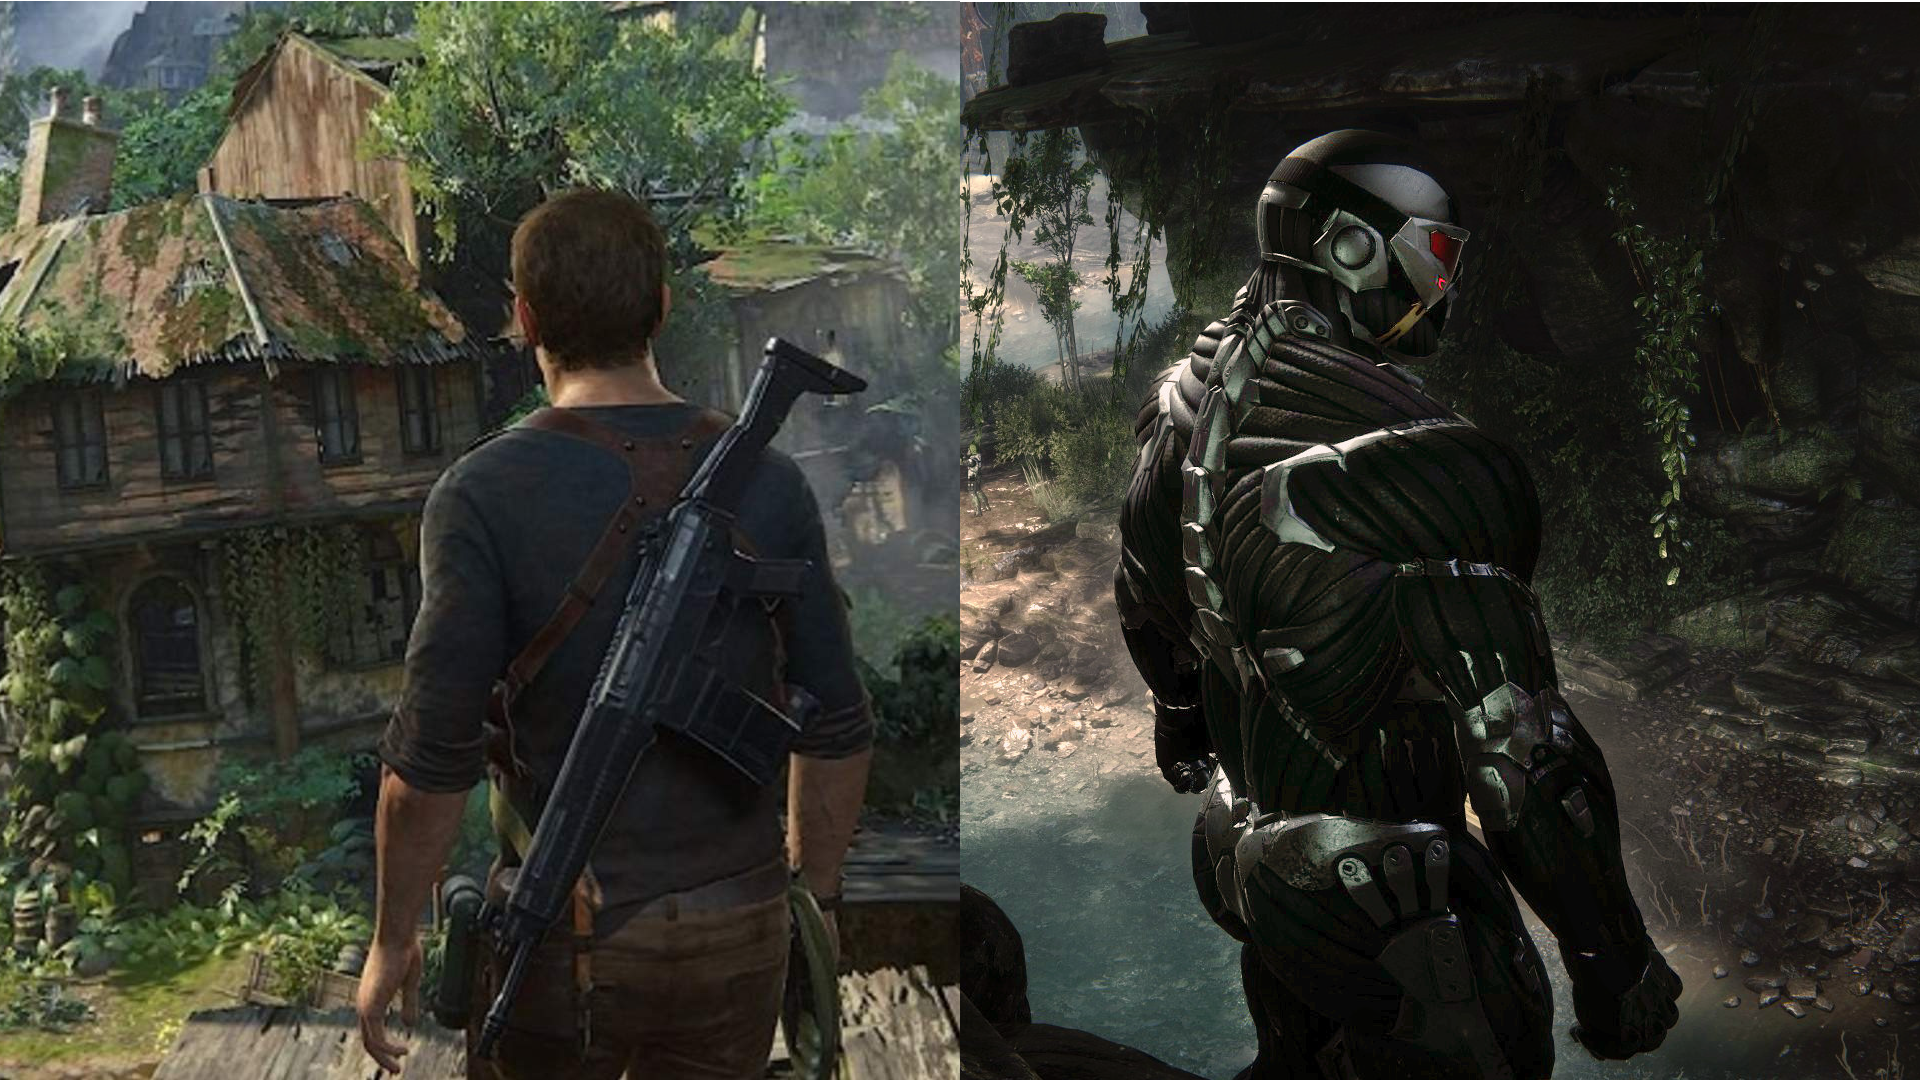
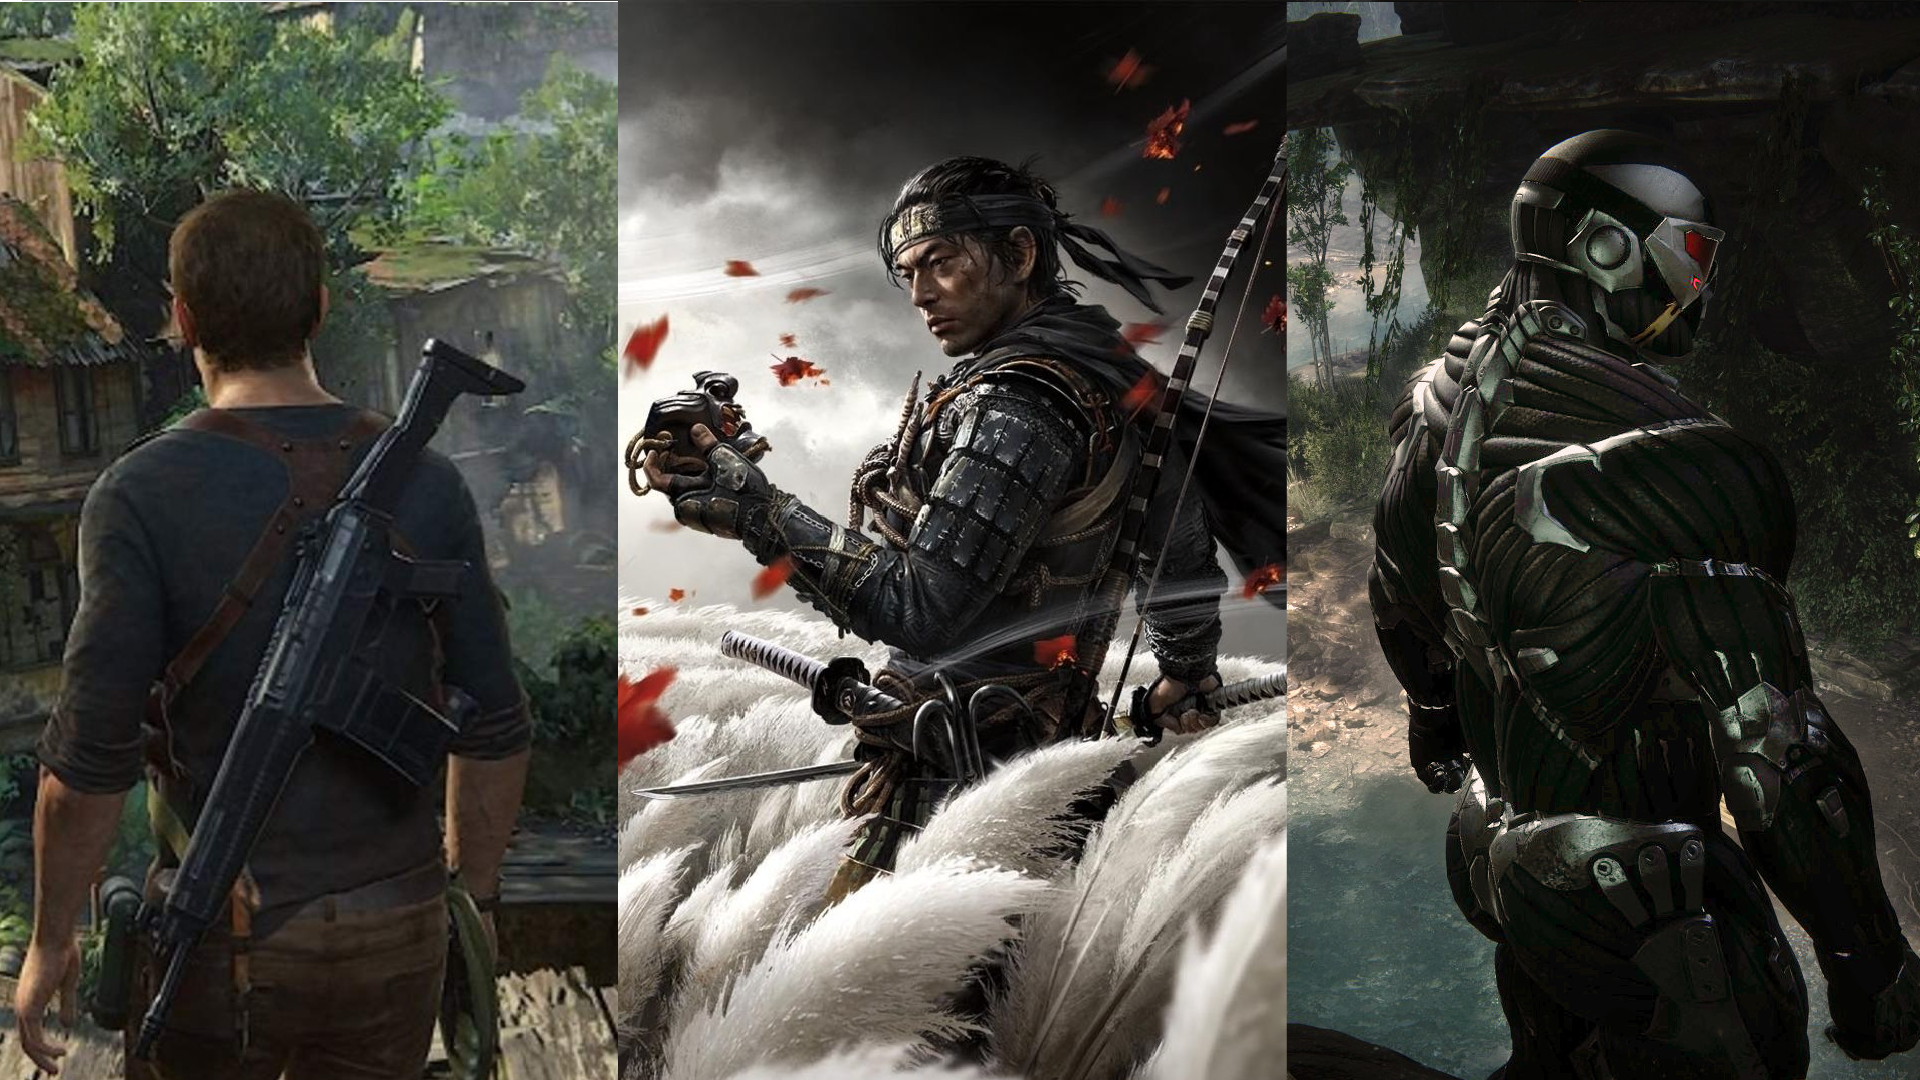
7.31 Birthday Update
Keeping playing and writing is a good habit.

diff --git a/games/stealth-level.html b/games/stealth-level.html
@@ -259,28 +259,36 @@
       <div class="main-design-description">
         <span class="element-title">mesh & color</span><br />
         Although the purpose of this level is not to make an environment design
-        portfolio, I built the level in medium details, especially for places
-        that should attract more attention. Coloring the mesh is also important,
-        as it gives a sense of what function the mesh serves.<br /><br />
+        portfolio, I built the level in medium detail, especially in places that
+        should attract more attention. <br /><br />
         What is interesting is that, when I was blocking out the level and
-        testing, I found in real games, each floor in interior levels should
-        better be HIGHER than in real life, due to fact that the third-person
-        camera angle is usually higher than the player character.<br /><br />
-        Translucent material is another level component I played with this time.
-        I used it on some windows to artistically make the mansion feel modern
-        and alive, but also to help players see through some part of the mansion
-        and guide them. <br />
+        testing, I found in real practices, each floor in interior levels should
+        better be HIGHER than in real life, due to fact that the position of
+        third-person camera is usually higher than the player character, which
+        makes the surroundings look lower.<br /><br />
+        I paid special attention to the colors being used on meshes. For a level
+        design project, I guess the prior job for color is not really to make a
+        level "real", but to make it MEANINGFUL. Every color should tell the
+        player clearly its purpose: maybe it's to attract attention as a focal
+        point; maybe it's to indicate of a place where special item hides; maybe
+        to convey faithfully a mood of the scene.<br /><br />
+        Translucent material is another component I played with this time. I
+        used it on pieces of mansion window glass to make the mansion feel
+        artistically modern and alive, but also to help players see through some
+        part of the mansion and guide them. An example is the glass in front of
+        stairs so players can see that the first moment they enter the
+        mansion.<br />
         <span class="element-title">lighting</span><br />
-        Lights plays a significant role in night scenes. In my level lighting
+        Lights plays a significant role in scenes at night. In my level lighting
         was used mostly to indicate important locations and hence direct the
-        players. I tried to use different colors for different purposes: yellow
-        means common places, white can be seen at the entrance of large area,
-        light yellow is used for enemies' flashlights.
+        players. Lights can also affect the mood of a place: less lighting
+        suggests a potentially dangerous place while bright lighting invigorate
+        people to explore.
         <br /><span class="element-title">collectibles</span><br />
-        Collectibles are commonly used in games to reward those who have
-        curiosity and patience to explore every corner of the world. To fill the
-        world with more content, I also use collectibles to enrich some not very
-        eye-catching routes.
+        One of my principles of using collectibles is that I didn't use them to
+        attract players, but to reward those who have curiosity and patience to
+        explore every corner of the world. So they serve as a result of
+        exploration.
       </div>
       <div class="main-design-title">
         <hr />
@@ -308,6 +316,11 @@
         they move, they are observing different places. As I programmed the
         whole game system, there are way more details that needs careful
         thoughts.
+        <br /><span class="element-title">interactive system</span><br />
+        Having a consistent input system for interaction is essential in
+        eliminating confusions. Players are given the capability of interacting
+        with various objects including enemies, doors, collectibles and intels,
+        for which only two keys (interact, attack) will be required.
         <br /><span class="element-title">dialogue system</span><br />
         Dialogue system in this game also plays as a guide that reminds the
         player of where they are and what they should be doing.
@@ -330,6 +343,10 @@
         path" which is mentioned earlier as a pitfall in stealth levels. To
         solve the problem, I re-designed enemies' patrol routes and also created
         more obstacles.
+        <div class="element-image-flex">
+          <img src="/media/games/stealth-level/iteration-2.png" />
+          <img src="/media/games/stealth-level/iteration-3.png" />
+        </div>
       </div>
 
       <div class="main-title">
@@ -356,7 +373,7 @@
       </div>
       <div class="main-design-title">
         <hr />
-        what didn't went well
+        what didn't go well
       </div>
       <div class="main-design-description">
         <span class="element-title">interior design</span><br />

diff --git a/analysis/level-analysis.html b/analysis/level-analysis.html
@@ -38,8 +38,8 @@
         Level Design Analysis
       </div>
       <div class="top-introduction">
-        One cannot gain without learning. I enhance my level design skills first
-        by studying level design from the good games.
+        From time to time, I write down my thoughts particularly on level design
+        here. After all, one cannot gain without learning.
       </div>
       <div class="top-information">
         <span style="color: var(--ro);">time</span> spring 2020 - present
@@ -59,50 +59,38 @@
         level design
       </div>
       <div class="main-design-description">
-        <span class="element-title">difficulty curve</span><br />
-        Just like the soul series made by From Software, the level of Bloodborne
-        is beautiful and challenging as well. Waking up in a vast world with few
-        hints for where to go next already is already harsh for any players, let
-        alone there are numbers of monsters along the way that can kill you in
-        three or four blows. <br />
-        The way Bloodborne does the tutorial is a quite linear map at the
-        beginning where enemies are deadly but also easy to deal with. And
-        whatever players do, they will eventually come to a stage where they
-        need to face the first storyline boss. It is almost unavoidable that
-        many deaths are to come, but that will be a very important lesson for
-        players to accept failures and get familiar with the map. It is just
-        fair that players use life - usually not very valuable in the early game
-        - to learn some basic rules and routines. As the story moves on, the
-        game offers more options to choose from and as players have better
-        equipment, higher level and more combat experience, it will not be so
-        overwhelming. The game in this way ask players in a polite way to think
-        carefully and choose a route they feel comfortable, leaving space to
-        choose for both new players and veterans.
-        <br /><span class="element-title">level's functions</span><br />
-        The levels have functions. One of the key things in Bloodborne's map is
-        the shortcut which drastically reduces the time needed to travel between
-        places. This can have several positive results. <br />
-        First, from a feedback perspective, shortcut could ease the negative
-        feeling of death because once opened the players don't have to fight
-        unnecessary monsters, they can just speedrun. <br />
-        Second, from a goal perspective, shortcuts serve as small goals for
-        players in their run. Due to the difficulty most people cannot finish
-        bosses in one shot, so opening a shortcut whenever entering a new area
-        becomes a preferable choice for players. This design as well in the
-        experience aspect intrigues player's curiosity and keeps their eyes
-        open. <br />
-        Third, From Software decompose the large world into smaller areas and
-        use shortcuts to connect them all, making them feel larger than they
-        really are. Doors, hidden ladders, stairways just make Bloodborne a real
-        3-dimensional world connecting the lower and higher places.<br />
-        Last but not least, shortcuts are also event triggers for dynamically
-        loading map. It takes several seconds to play the open door animation,
-        leaving time to load the map of next area.
-        <div class="element-image-flex">
-          <img src="/media/analysis/bloodborne/shortcut-1.PNG" />
-          <img src="/media/analysis/bloodborne/shortcut-2.PNG" />
+        <span class="element-title">level's functions</span><br />
+        <div class="element-image-flex"></div>
+      </div>
+      <div class="main-title">
+        Ghost of Tsushima
+      </div>
+      <div class="main-description">
+        An open world action game, Ghost of Tsushima learnt from the experience
+        of other genres and did a good job on making a vast, attracting
+        oriental-style land without leaving players not knowing what to do.
+      </div>
+      <div class="main-design-title">
+        <hr />
+        visuals
+      </div>
+      <div class="main-design-description">
+        <span class="element-title">guiding</span><br />
+        <div class="element-image">
+          <img src="/media/analysis/level-analysis/tsushima-1.jpg" />
+          <img src="/media/analysis/level-analysis/tsushima-3.jpg" />
+          <img src="/media/analysis/level-analysis/tsushima-4.jpg" />
+        </div>
+        <span class="element-title">storytelling</span><br />
+        <div class="element-image">
+          <img src="/media/analysis/level-analysis/tsushima-2.jpg" />
         </div>
       </div>
+      <div class="main-design-title">
+        <hr />
+        user interface
+      </div>
+      <div class="main-design-description"></div>
       <div class="main-title">
         Crysis 3
       </div>

diff --git a/games/combat-zone.html b/games/combat-zone.html
@@ -122,10 +122,11 @@
         use everything they're provided to win.<br />
         -
         <span class="bold"
-          >A perimeter balcony above where idle players can observe the
-          ground.</span
-        >
-        <br /><span class="element-title">map: 3d</span><br />
+          >A perimeter balcony above where idle prisoners can observe the
+          ground. </span
+        >No doubt this design gives advantage to the players who have teammates
+        in the jail, which is a really interesting design to keep them away from
+        boredom. <br /><span class="element-title">map: 3d</span><br />
         One very important design I found about the three gulag map is that,
         most walls are so tall that players cannot crouch and peek enemies. They
         have to move to the edge of the wall, and peek left/right, which adds to
@@ -148,11 +149,52 @@
         <hr />
         mechanics
       </div>
-      <div class="main-design-description">a</div>
+      <div class="main-design-description">
+        <div class="element-image">
+          <img src="/media/games/combat-zone/mechanics.png" />
+        </div>
+      </div>
       <div class="main-design-title">
         <hr />
         2d map
       </div>
+
+      <div class="main-title">
+        Production
+      </div>
+      <div class="main-design-title">
+        <hr />
+        level design
+      </div>
+      <div class="main-design-description">
+        Different from the stealth level, the environment in combat levels are
+        wholly done inside of Unreal Engine, as I believe this could bring
+        better flexibility for iterating purpose.
+      </div>
+      <div class="main-design-title">
+        <hr />
+        level construction
+      </div>
+      <div class="main-design-description">
+        I used Blueprint to customize the first person shooter template.
+      </div>
+      <div class="main-design-title">
+        <hr />
+        playtesting
+      </div>
+
+      <div class="main-title">
+        Post-Mortem
+      </div>
+      <div class="main-design-title">
+        <hr />
+        what went well
+      </div>
+      <div class="main-design-title">
+        <hr />
+        what didn't go well
+      </div>
+
       <div style="clear: both;"></div>
     </div>
   </body>

diff --git a/css/general.css b/css/general.css
@@ -243,7 +243,7 @@ hr {
   max-width: 61.8%;
   font-size: 1.5em;
   font-weight: 600;
-  margin: 0.5em auto;
+  margin: 0 auto 0.5em auto;
 }
 
 .main-video {
